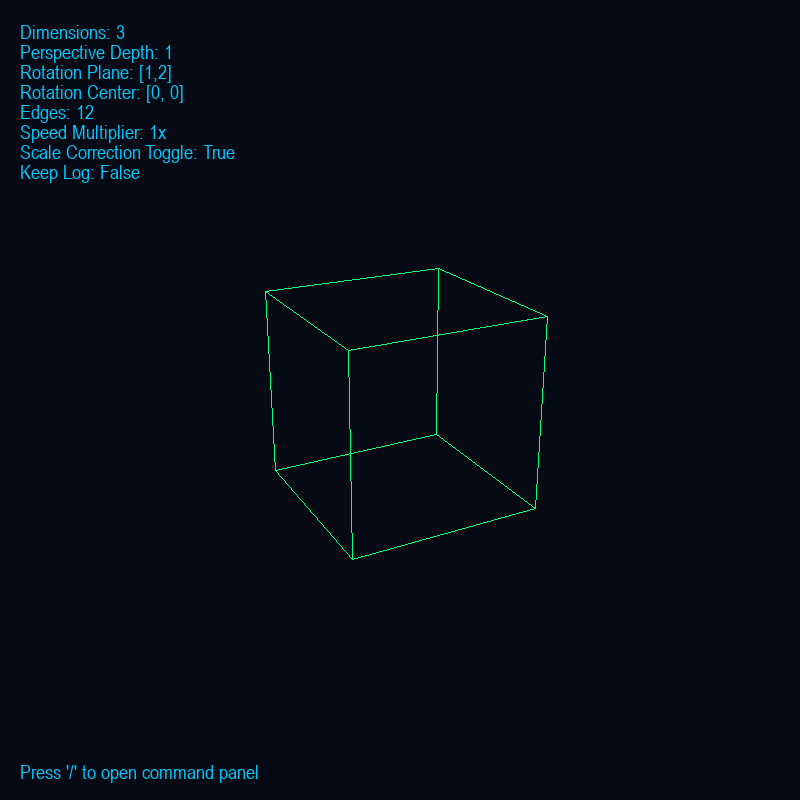
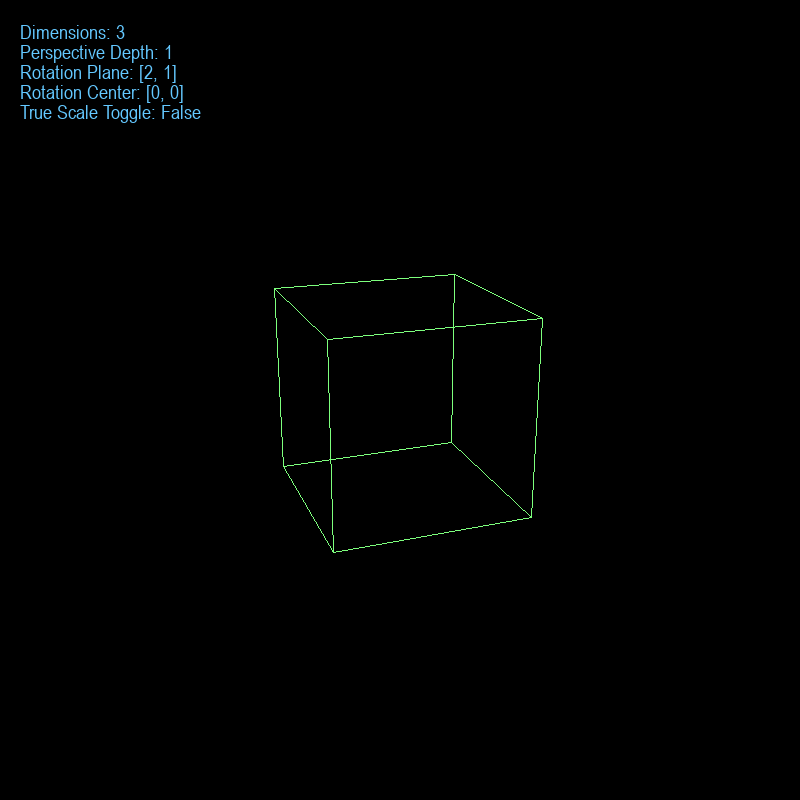
update

diff --git a/wireframe_renderer/main.py b/wireframe_renderer/main.py
@@ -37,6 +37,7 @@ class Display: #TODO: maybe reorganize and add more classes and maybe data class
         self.font_color = self.palettes[self.current_palette][2]
         self.fps = 30
         self.log = False
+        self.quit = False
 
 class Wireframe:
     """description"""
@@ -45,6 +46,7 @@ class Wireframe:
         self.plane = [0,2]
         self.theta = math.pi / 72
         self.angle_rotated = 0
+        self.auto_rotate = False
         self.side = 100
         self.dimensions = 3
         self.perspective = 1
@@ -90,6 +92,7 @@ def command_options(): #TODO: turn into dictionary in class and use in panel as 
     print("    save - Save the current object to a file")
     print("    keys - View actions")
     print("    help - View command list")
+    print("    quit - Close the program")
 
 def pythag(rx,ry):
     return math.sqrt(rx ** 2 + ry ** 2)
@@ -146,6 +149,7 @@ def info(display,wireframe):
                   "Edges: " + str(len(wireframe.lines)),
                   "Speed Multiplier: " + str(wireframe.speed) + "x",
                   "Scale Correction Toggle: " + str(wireframe.scale_correction),
+                  "Auto Rotation Toggle: " + str(wireframe.auto_rotate),
                   "Keep Log: " + str(display.log)] #TODO: Make it look fancier
     y = display.spacing
     for i in range(len(shown_info)):
@@ -250,6 +254,7 @@ def valid_file(file_name,wireframe):
         return True
     except FileNotFoundError:
         print("[ERROR] File name not recognized.")
+        print("     Ensure that the file exists and is placed in the 'file_shapes' folder.")
         return False
 
 # === PRESET SHAPES ===
@@ -323,7 +328,7 @@ def hyperpyramid(dimensions,display,wireframe):
 
 # === INTERACTIVE CONTROLS ===
 def panel(display,wireframe):
-    commands = ["add","remove","view lines","preset","center","clear","help","keys","plane","save","load","log","dimensions"] #TODO: move these to classes
+    commands = ["add","remove","view lines","quit","preset","center","clear","help","keys","plane","save","load","log","dimensions"] #TODO: move these to classes
     #TODO: clean up all the checks in the if statements/split into multiple if statements with more descriptive error messages once in separate functions
     presets = ["hypercube","hyperpyramid"]
     command = ""
@@ -426,6 +431,9 @@ def panel(display,wireframe):
         elif command == "log":
             display.log = not display.log
             redraw(display,wireframe)
+        elif command == "quit":
+            display.quit = True
+            break
         elif command == "view lines":
             if len(wireframe.lines) == 0:
                 print("[INFO] No lines currently present on the screen.")
@@ -483,6 +491,9 @@ def panel(display,wireframe):
                 user_input = input("Enter the file name: ")
                 if user_input == "/":
                     break
+                if not os.path.exists("file_shapes"):
+                    os.makedirs("file_shapes")
+                    print("[INFO] Created missing folder: 'file_shapes'.")
                 file_name = "file_shapes/" + user_input + ".txt"
                 if valid_file(file_name,wireframe):
                     file_pointer = open(file_name,"r")
@@ -503,6 +514,7 @@ def panel(display,wireframe):
                     break
         elif command == "save":
             while True:
+                proceed = True
                 invalid_characters = " \\/.<>?*:|\""
                 user_input = input("Enter the file name: ")
                 if user_input == "/":
@@ -510,20 +522,35 @@ def panel(display,wireframe):
                 if user_input == "" or any (ch in invalid_characters for ch in user_input):
                     print("Invalid file name!")
                     continue
+                if not os.path.exists("file_shapes"):
+                    os.makedirs("file_shapes")
+                    print("[INFO] Created missing folder: 'file_shapes'.")
                 file_name = "file_shapes/" + user_input + ".txt"
-                file_pointer = open(file_name,"w")
-                file_pointer.write("# === Saved Wireframe ===\n")
-                file_pointer.write("#   Required Dimensions: " + str(wireframe.dimensions) + "\n")
-                file_pointer.write("#   Lines: " + str(len(wireframe.lines)) + "\n")
-                file_pointer.write("\n\n\n")
-                for line in wireframe.lines:
-                    for point in line:
-                        for coordinate in point:
-                            file_pointer.write(str(coordinate) + " ")
-                    file_pointer.write("\n")
-                file_pointer.close()
-                print("[SUCCESS] " + str(len(wireframe.lines)) + " lines saved to file {" + file_name + "}.")
-                break
+                while True:
+                    if os.path.exists(file_name):
+                        print("[Notice] '" + user_input + ".txt' already exists in folder 'file_shapes'.")
+                        overwrite = input("     Are you sure you want to overwrite the existing file? (y/n)")
+                        if overwrite == "/" or overwrite.lower() == "n":
+                            proceed = False
+                            break
+                        elif overwrite.lower() == "y":
+                            break
+                        else:
+                            print("Invalid response!")
+                if proceed:
+                    file_pointer = open(file_name,"w")
+                    file_pointer.write("# === Saved Wireframe ===\n")
+                    file_pointer.write("#   Required Dimensions: " + str(wireframe.dimensions) + "\n")
+                    file_pointer.write("#   Lines: " + str(len(wireframe.lines)) + "\n")
+                    file_pointer.write("\n\n\n")
+                    for line in wireframe.lines:
+                        for point in line:
+                            for coordinate in point:
+                                file_pointer.write(str(coordinate) + " ")
+                        file_pointer.write("\n")
+                    file_pointer.close()
+                    print("[SUCCESS] " + str(len(wireframe.lines)) + " lines saved to file {" + file_name + "}.")
+                    break
         elif command == "help":
             command_options()
         elif command == "keys":
@@ -557,14 +584,16 @@ def main(): #TODO: move event checks to another function and add more helper fun
     clock = pygame.time.Clock()
     
     # Check for inputs
-    running = True
-    while running:#TODO: make another function to handle all events (similar to panel) and smaller functions within for each event
+    while not display.quit:#TODO: make another function to handle all events (similar to panel) and smaller functions within for each event
         for event in pygame.event.get():
             if event.type == pygame.QUIT:
-                running = False
+                display.quit = True
             elif event.type == pygame.KEYDOWN:
                 if event.key == pygame.K_SLASH:
+                    print("[INFO] The display is paused while the command panel is open.")
                     panel(display,wireframe)
+                elif event.key == pygame.K_ESCAPE:
+                    display.quit = True
                 elif event.key == pygame.K_UP or event.key == pygame.K_DOWN:
                     swap_plane(event.key,wireframe)
                     if wireframe.info:
@@ -572,8 +601,14 @@ def main(): #TODO: move event checks to another function and add more helper fun
                     if display.log:
                         print("[LOG:STATE] Rotation plane set to (" + str(min(wireframe.plane)) + "," + str(max(wireframe.plane)) + ").")
                 elif event.key == pygame.K_s and (pygame.key.get_mods() & pygame.KMOD_CTRL):
-                    number_of_pngs = len([f for f in os.listdir("screenshots") if f.endswith(".png")])
-                    screenshot_name = "screenshots/Screenshot" + str(number_of_pngs + 1) + ".png"
+                    if not os.path.exists("screenshots"):
+                        os.makedirs("screenshots")
+                        print("[INFO] Created missing folder: 'screenshots'.")
+                    screenshot_name = "screenshots/Screenshot.png"
+                    number_of_pngs = 1
+                    while os.path.exists(screenshot_name):
+                        screenshot_name = "screenshots/Screenshot" + str(number_of_pngs) + ".png"
+                        number_of_pngs += 1
                     pygame.image.save(display.screen,screenshot_name)
                     print("[SUCCESS] Saved screenshot as {" + screenshot_name + "}.")
                 elif event.key == pygame.K_q:
@@ -581,6 +616,11 @@ def main(): #TODO: move event checks to another function and add more helper fun
                     redraw(display,wireframe)
                     if display.log:
                         print("[LOG:VIEW] Scale correction toggle set to " + str(wireframe.scale_correction) + ".")
+                elif event.key == pygame.K_r:
+                    wireframe.auto_rotate = not wireframe.auto_rotate
+                    redraw(display,wireframe)
+                    if display.log:
+                        print("[LOG:ROTATE] Auto rotate toggle set to " + str(wireframe.auto_rotate) + ".")
                 elif event.key == pygame.K_EQUALS:
                     if wireframe.perspective < 5:
                         wireframe.perspective += 0.2
@@ -637,7 +677,7 @@ def main(): #TODO: move event checks to another function and add more helper fun
                         wireframe.info = False
                         redraw(display,wireframe)
         key = pygame.key.get_pressed()
-        if len(wireframe.lines) != 0:
+        if len(wireframe.lines) != 0 and not wireframe.auto_rotate:
             if not key[pygame.K_RIGHT] and not key[pygame.K_LEFT]:
                 if display.log and wireframe.angle_rotated != 0:
                     print("[LOG:ROTATE] Rotated " + str(wireframe.angle_rotated) + " degrees in the (" + str(min(wireframe.plane)) + "," + str(max(wireframe.plane)) + ") plane.")
@@ -654,10 +694,21 @@ def main(): #TODO: move event checks to another function and add more helper fun
                     info(display,wireframe)
                 text = display.font.render("Press '/' to open command panel",True,display.font_color)
                 display.screen.blit(text,(display.spacing,display.side - 2 * display.spacing))
+        if wireframe.auto_rotate:
+            rotate("right",display,wireframe)
+            if wireframe.info:
+                info(display,wireframe)
+            text = display.font.render("Press '/' to open command panel",True,display.font_color)
+            display.screen.blit(text,(display.spacing,display.side - 2 * display.spacing))
         pygame.display.flip()
         clock.tick(display.fps * wireframe.speed)
     pygame.quit()
 
 # === START PROGRAM ===
 if __name__ == "__main__":
-    main()
+    try:
+        main()
+    except Exception as e:
+        print("[ERROR] Unexpected error: " + str(e))
+    finally:
+        pygame.quit()

diff --git a/README.md b/README.md
@@ -1,1 +1,83 @@
-test
+# N-D Wireframe Renderer
+**Author:** Jerry Yang
+
+A Pygame-based visualization tool for rendering and exploring geometric wireframes in arbitrary dimensions (2D and higher).  
+Objects are projected from N-dimensional space onto a 2D plane using perspective projection, allowing interactive rotation, custom line definitions, and preset shapes such as hypercubes and hyperpyramids.
+
+Includes features for command-based editing, file I/O, and real-time visual controls.  
+Designed for experimentation, visualization, and learning about higher-dimensional geometry.
+
+---
+
+## Setup
+
+**Requirements:**
+- Python 3.9+
+- Pygame (`pip install pygame`)
+
+**To run:**
+```bash
+python main.py
+```
+
+---
+
+## Controls
+
+| Key | Action |
+|-----|--------|
+| `/` | Open command panel |
+| Arrow Keys | Rotate / Change rotation plane |
+| `=` / `-` | Adjust perspective depth |
+| `[` / `]` | Adjust rotation speed |
+| `Q` | Toggle scale correction |
+| `P` | Cycle color palette |
+| `Tab` | Toggle info overlay |
+| `Ctrl + S` | Save screenshot |
+| Window close | Quit program |
+
+---
+
+## Command Panel
+
+Open the panel with `/` and type a command.  
+Available commands:
+
+```
+add           - Add a line
+remove        - Remove a line
+view lines    - View all current lines
+preset        - Load a preset (hypercube, hyperpyramid)
+center        - Set rotation center
+plane         - Set rotation plane
+clear         - Clear all lines
+load          - Load from file
+save          - Save to file
+dimensions    - Change number of dimensions
+log           - Toggle console logging
+help / keys   - View help or key bindings
+/             - Exit command panel
+```
+
+---
+
+## File Structure
+
+```
+N-D-Wireframe-Renderer/
+│
+├── main.py                # Main program
+├── file_shapes/           # Saved wireframe files (.txt)
+├── screenshots/           # Saved screenshots (.png)
+└── README.md              # Project info
+```
+
+---
+
+## Notes / TODO
+
+- [ ] Add screenshots and examples  
+- [ ] Split large file into multiple modules  
+- [ ] Improve descriptions and docstrings  
+- [ ] Add more preset shapes (e.g., simplex, tesseract)  
+- [ ] Consider adding mouse control and animations
